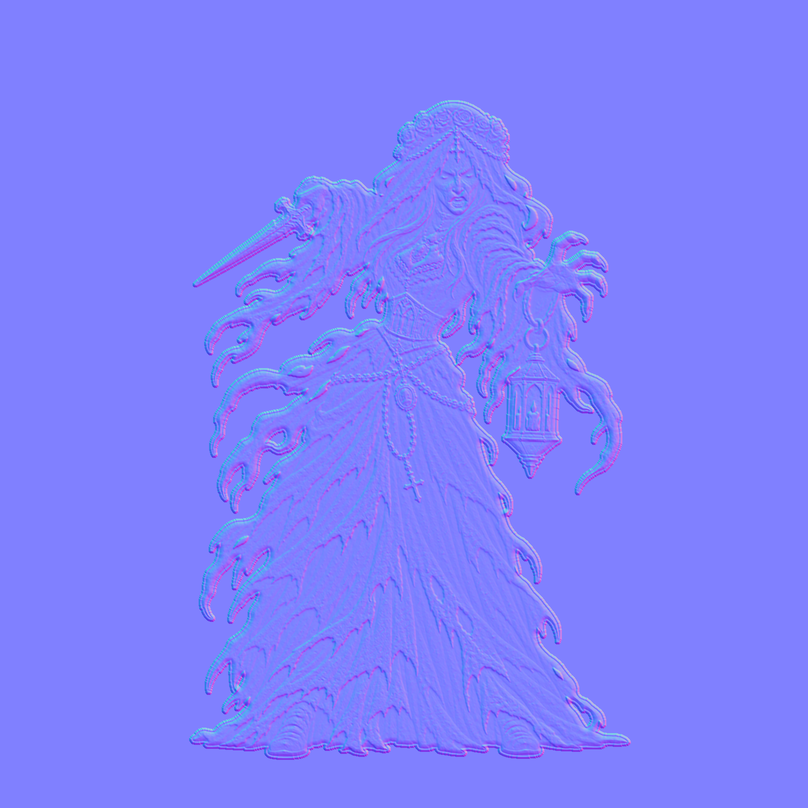
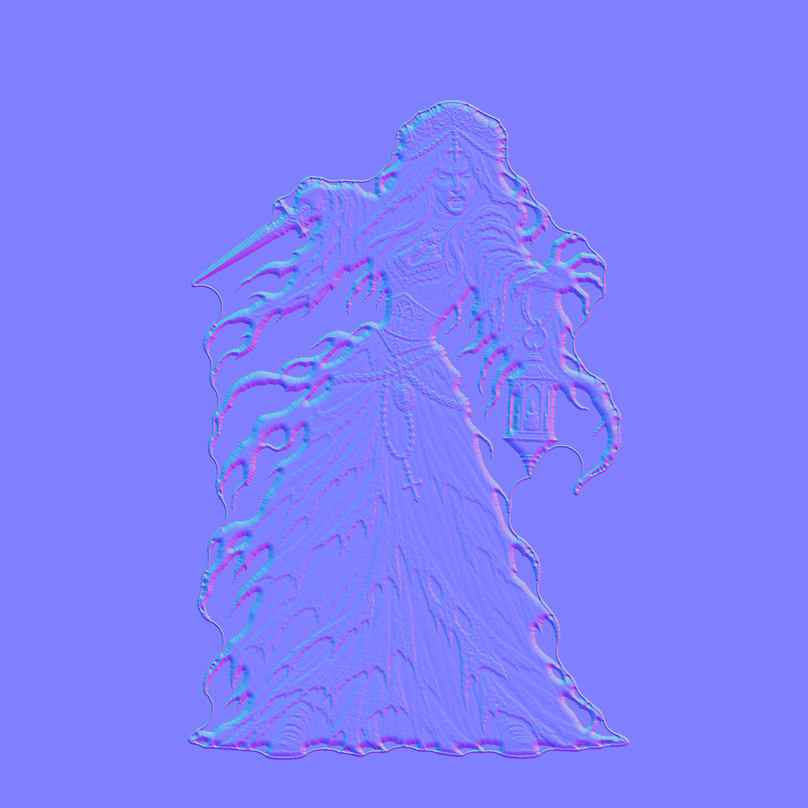
Veuve M03 : liseré en enveloppe fermée (aucun blanc dans les trous du lambeau ni entre les bras), option --liseré-trou
Claude-Session: https://claude.ai/code/session_016J9VLX1fiPLFcAPYid8ZLe

Changed region(s): [[0.2166, 0.1238, 0.7735, 0.9592]]

diff --git a/tools/make_monster.py b/tools/make_monster.py
@@ -34,6 +34,7 @@ ERODE = 2           # px retirés ensuite (reste de liseré gris)
 FEATHER = 1.0       # px de dégradé du bord
 KEEP_OUTLINE = True  # liseré blanc conservé (voulu) ; --sans-liseré pour le retirer
 SCALES_OVERRIDE = None  # échelles imposées (--echelles=...) ; None = estimation SIFT
+GAP_PX = 45          # liseré uniforme : enveloppe fermée de rayon GAP_PX px, pas de blanc dans les vides plus étroits que 2 × GAP_PX px (--liseré-trou=N, 0 = liseré partout)
 UNIFORM_PX = 0       # > 0 : liseré d'origine remplacé par un liseré blanc de cette épaisseur (--liseré-uniforme)
 FLOOR = 0.94        # position des pieds dans le carré (fraction de la hauteur)
 MARGIN = 0.03       # marge minimale autour de la pose la plus grande
@@ -143,6 +144,13 @@ def uniform_outline(rgb, solid, px):
         touch = np.unique(wl[ndi.binary_dilation(removed, iterations=2) & blob])
         wsz = ndi.sum(blob, wl, range(1, wn + 1))
         removed |= np.isin(wl, [i for i in touch if i and wsz[i - 1] < 1500])
+    # trous du tissu remplis de blanc par l'illustration : aplats d'un blanc franc (≥ 60 px) → retirés (le dessin garde son propre trait noir)
+    strict = (rgb.min(-1) > 0.92) & ((rgb.max(-1) - rgb.min(-1)) < 0.08) & solid & ~removed
+    sl, sn = ndi.label(strict)
+    if sn:
+        ssz = ndi.sum(strict, sl, range(1, sn + 1))
+        core = np.isin(sl, [i + 1 for i, z in enumerate(ssz) if z >= 60])
+        removed |= ndi.binary_dilation(core, iterations=3) & whitish & solid
     inner = solid & ~removed
     lab, n = ndi.label(inner)
     if n > 1:
@@ -150,6 +158,21 @@ def uniform_outline(rgb, solid, px):
         inner = np.isin(lab, [i + 1 for i, z in enumerate(sz) if z > 300])
     dist = ndi.distance_transform_edt(~inner)
     alpha = np.where(inner, 1.0, np.clip(px + 0.5 - dist, 0, 1)).astype(np.float32)
+    # le liseré ne fait que le tour du personnage : les trous fermés (sans lien avec l'extérieur) restent transparents, sans liseré
+    vide, vn = ndi.label(~inner)
+    if vn > 1:
+        bord = np.unique(np.concatenate([vide[0], vide[-1], vide[:, 0], vide[:, -1]]))
+        alpha[(vide > 0) & ~np.isin(vide, bord)] = 0
+    # ... et les vides étroits ouverts sur l'extérieur (entre les mèches du lambeau, entre un bras et le corps) n'en ont pas non plus : on ferme la
+    # silhouette (fermeture morphologique de rayon GAP_PX : dilatation puis érosion) et le liseré suit cette enveloppe (il enjambe les vides étroits)
+    if GAP_PX > 0:
+        g = GAP_PX
+        pad = np.pad(inner, g + 2)
+        dil = ndi.distance_transform_edt(~pad) <= g
+        ferme = (ndi.distance_transform_edt(dil) > g) | pad
+        ferme = ferme[g + 2:-(g + 2), g + 2:-(g + 2)]
+        dist_env = ndi.distance_transform_edt(~ferme)       # le liseré suit l'enveloppe : il enjambe les vides étroits au lieu d'y entrer
+        alpha = np.where(inner, 1.0, np.where(ferme, 0.0, np.clip(px + 0.5 - dist_env, 0, 1))).astype(np.float32)
     out = np.where(inner[..., None], rgb, 1.0).astype(np.float32)     # liseré : blanc pur, prolongé en blanc au-delà (pas de frange aux mipmaps)
     return out, alpha
 
@@ -218,12 +241,15 @@ def stats(alpha):
                 cx=float((xs * w).sum() / w.sum()))
 
 def main():
-    global KEEP_OUTLINE, UNIFORM_PX, SCALES_OVERRIDE
+    global KEEP_OUTLINE, UNIFORM_PX, SCALES_OVERRIDE, GAP_PX
     if "--sans-liseré" in sys.argv:
         sys.argv.remove("--sans-liseré"); KEEP_OUTLINE = False
     for a in list(sys.argv):
         if a.startswith("--echelles="):
             sys.argv.remove(a); SCALES_OVERRIDE = [float(x) for x in a.split("=")[1].split(",")]; assert len(SCALES_OVERRIDE) == 5
+    for a in list(sys.argv):
+        if a.startswith("--liseré-trou="):
+            sys.argv.remove(a); GAP_PX = int(a.split("=")[1])
     for a in list(sys.argv):
         if a.startswith("--liseré-uniforme"):
             sys.argv.remove(a); UNIFORM_PX = int(a.split("=")[1]) if "=" in a else 5

diff --git a/docs/TECHNIQUE.md b/docs/TECHNIQUE.md
@@ -535,4 +535,4 @@ Après TripoSR, `Converter._bake_command` copie `res://tools_py/bake_texture.py`
 - Netteté des monstres Atlas Noir en jeu (2026-10-31) : à 1440p le sprite s'affiche 2,5 à 3 fois plus petit que son image ; les mipmaps de Godot (filtre boîte) le rendaient flou (netteté mesurée ≈ 50 % d'une vraie réduction sur le banc d'essai `tools/sprite_lab.gd`, ≈ 21 % en jeu). Des mipmaps recalculées en Lanczos n'y changent rien ; le biais de mipmap de la vue 3D est ignoré par le moteur Compatibilité. Remède : `AtlasSpriteMaterial` (shader, mêmes propriétés que le StandardMaterial3D : billboard, alpha, éclairage par pixel, auto-éclairage, normales, liseré de lumière) avec `texture(tex, uv, -1.0)`. Éclairage identique à l'ancien (luminance et couleur moyennes mesurées), netteté en jeu ×1,8 (0,21 → 0,37 de l'idéal à l'échelle de rendu 1,25 ; 0,24 → 0,6 à l'échelle 1,0). Interrupteur de comparaison `EntityLayer.atlas_shader`, biais `AtlasSpriteMaterial.lod_bias` (-1,0 ; en deçà de -0,75 le crépitement peut apparaître en mouvement). Constat : l'échelle de rendu 3D de 1,25 (suréchantillonnage) adoucit les sprites par rapport à 1,0.
 - Taille d'affichage et adaptation à l'écran (2026-10-31) : la Veuve (736 px affichée sur 616 px, réduction ×1,2) paraissait plus nette que M01 (1728 px sur 531 px, ×3,3). Deux remèdes : (1) `veilleur_m01` passe à 1,7 dans `MON_HEIGHTS` (≈ 1,9 m, comme la Veuve) ; (2) `EntityLayer._fit_texture` réduit chaque image Atlas UNE fois, au chargement, en Lanczos, à `FIT_MARGIN` (1,15) × sa taille d'affichage à une case de distance sur l'écran du joueur (`FIT_FRAC` = 0,189 hauteur d'écran par mètre de monde, mesuré en 1440p sur trois monstres), jamais agrandie. Mesuré : carré de M01 affiché sur 451 / 602 / 902 px à 1080p / 1440p / 2160p pour des textures de 519 / 692 / 1038 px (réduction ×1,15 partout). Coût : ≈ 95 ms par image, d'où `warm_poses` (toutes les poses construites à la création du sprite, pas à la première attaque). Mémoire vidéo de M01 à 1440p : ≈ 6 fois moindre. Gain de netteté en image fixe modeste (erreur moyenne vs réduction idéale 5,79 contre 6,08 sans adaptation ; la mesure par variance du laplacien, elle, baisse, car l'ancienne version crépitait) : l'essentiel du gain vient de la taille à l'écran et du biais de mipmap. Interrupteurs des outils de capture : `fit=0`, `fit=<hauteur d'écran>`. La netteté tient surtout au dessin (traits épais, tête grande, peu de micro-texture) : à demander dans le prompt.
 - Fossoyeur sans visage M02 (`mon_fossoyeur`, 2026-10-31) : remplacé par cinq nouvelles images (1024×1536, nouveau prompt), importées avec `--liseré-uniforme=5` (liseré blanc de 5 px sur les cinq poses). Carré de 1568 px, pose d'attente haute de 1425 px (0,909) ; la pose « attaque alternative » est remise à l'échelle (×0,958). Ligne `fossoyeur` de `MON_HEIGHTS` : 1,5 (≈ 1,77 m, comme l'ancien) ; buste `[0.492, 0.16, 0.13]`. Résistances et effets inchangés.
-- Veuve des Cryptes M03 (`mon_veuve`) : remplacée par la nouvelle génération (épousée humaine, même id, même nom, mêmes résistances). Importée avec `--liseré-uniforme=5` et `--echelles=1.000,0.834,0.876,0.894,1.000` calculées par `tools/estimate_scales.py` (appariement SIFT de toutes les paires de poses ; l'appariement direct à l'attente échouait pour l'attaque, l'attaque alternative et la mort). Carré 1616 px, attente 1459 px. Ordre des images : repos, attaque, coup reçu, attaque alternative, mort ; l'attribution attaque / attaque alternative a été choisie d'après le contenu. L'échelle de la pose de mort reste à 1,0 (aucune paire fiable) : à contrôler à l'œil. Hauteur en jeu `veuve` 1.66, médaillon `[0.507, 0.155, 0.115]`.
+- Veuve des Cryptes M03 (`mon_veuve`) : remplacée par la nouvelle génération (épousée humaine, même id, même nom, mêmes résistances). Importée avec `--liseré-uniforme=5` et `--echelles=1.000,0.834,0.876,0.894,1.000` calculées par `tools/estimate_scales.py` (appariement SIFT de toutes les paires de poses ; l'appariement direct à l'attente échouait pour l'attaque, l'attaque alternative et la mort). Carré 1616 px, attente 1459 px. Ordre des images : repos, attaque, coup reçu, attaque alternative, mort ; l'attribution attaque / attaque alternative a été choisie d'après le contenu. L'échelle de la pose de mort reste à 1,0 (aucune paire fiable) : à contrôler à l'œil. Hauteur en jeu `veuve` 1.66, médaillon `[0.507, 0.155, 0.115]`. Liseré : enveloppe fermée (fermeture morphologique de 45 px, option `--liseré-trou=N`) : il suit le tour du personnage et enjambe les vides étroits, aucun blanc dans les trous du lambeau ni entre un bras et le corps.
